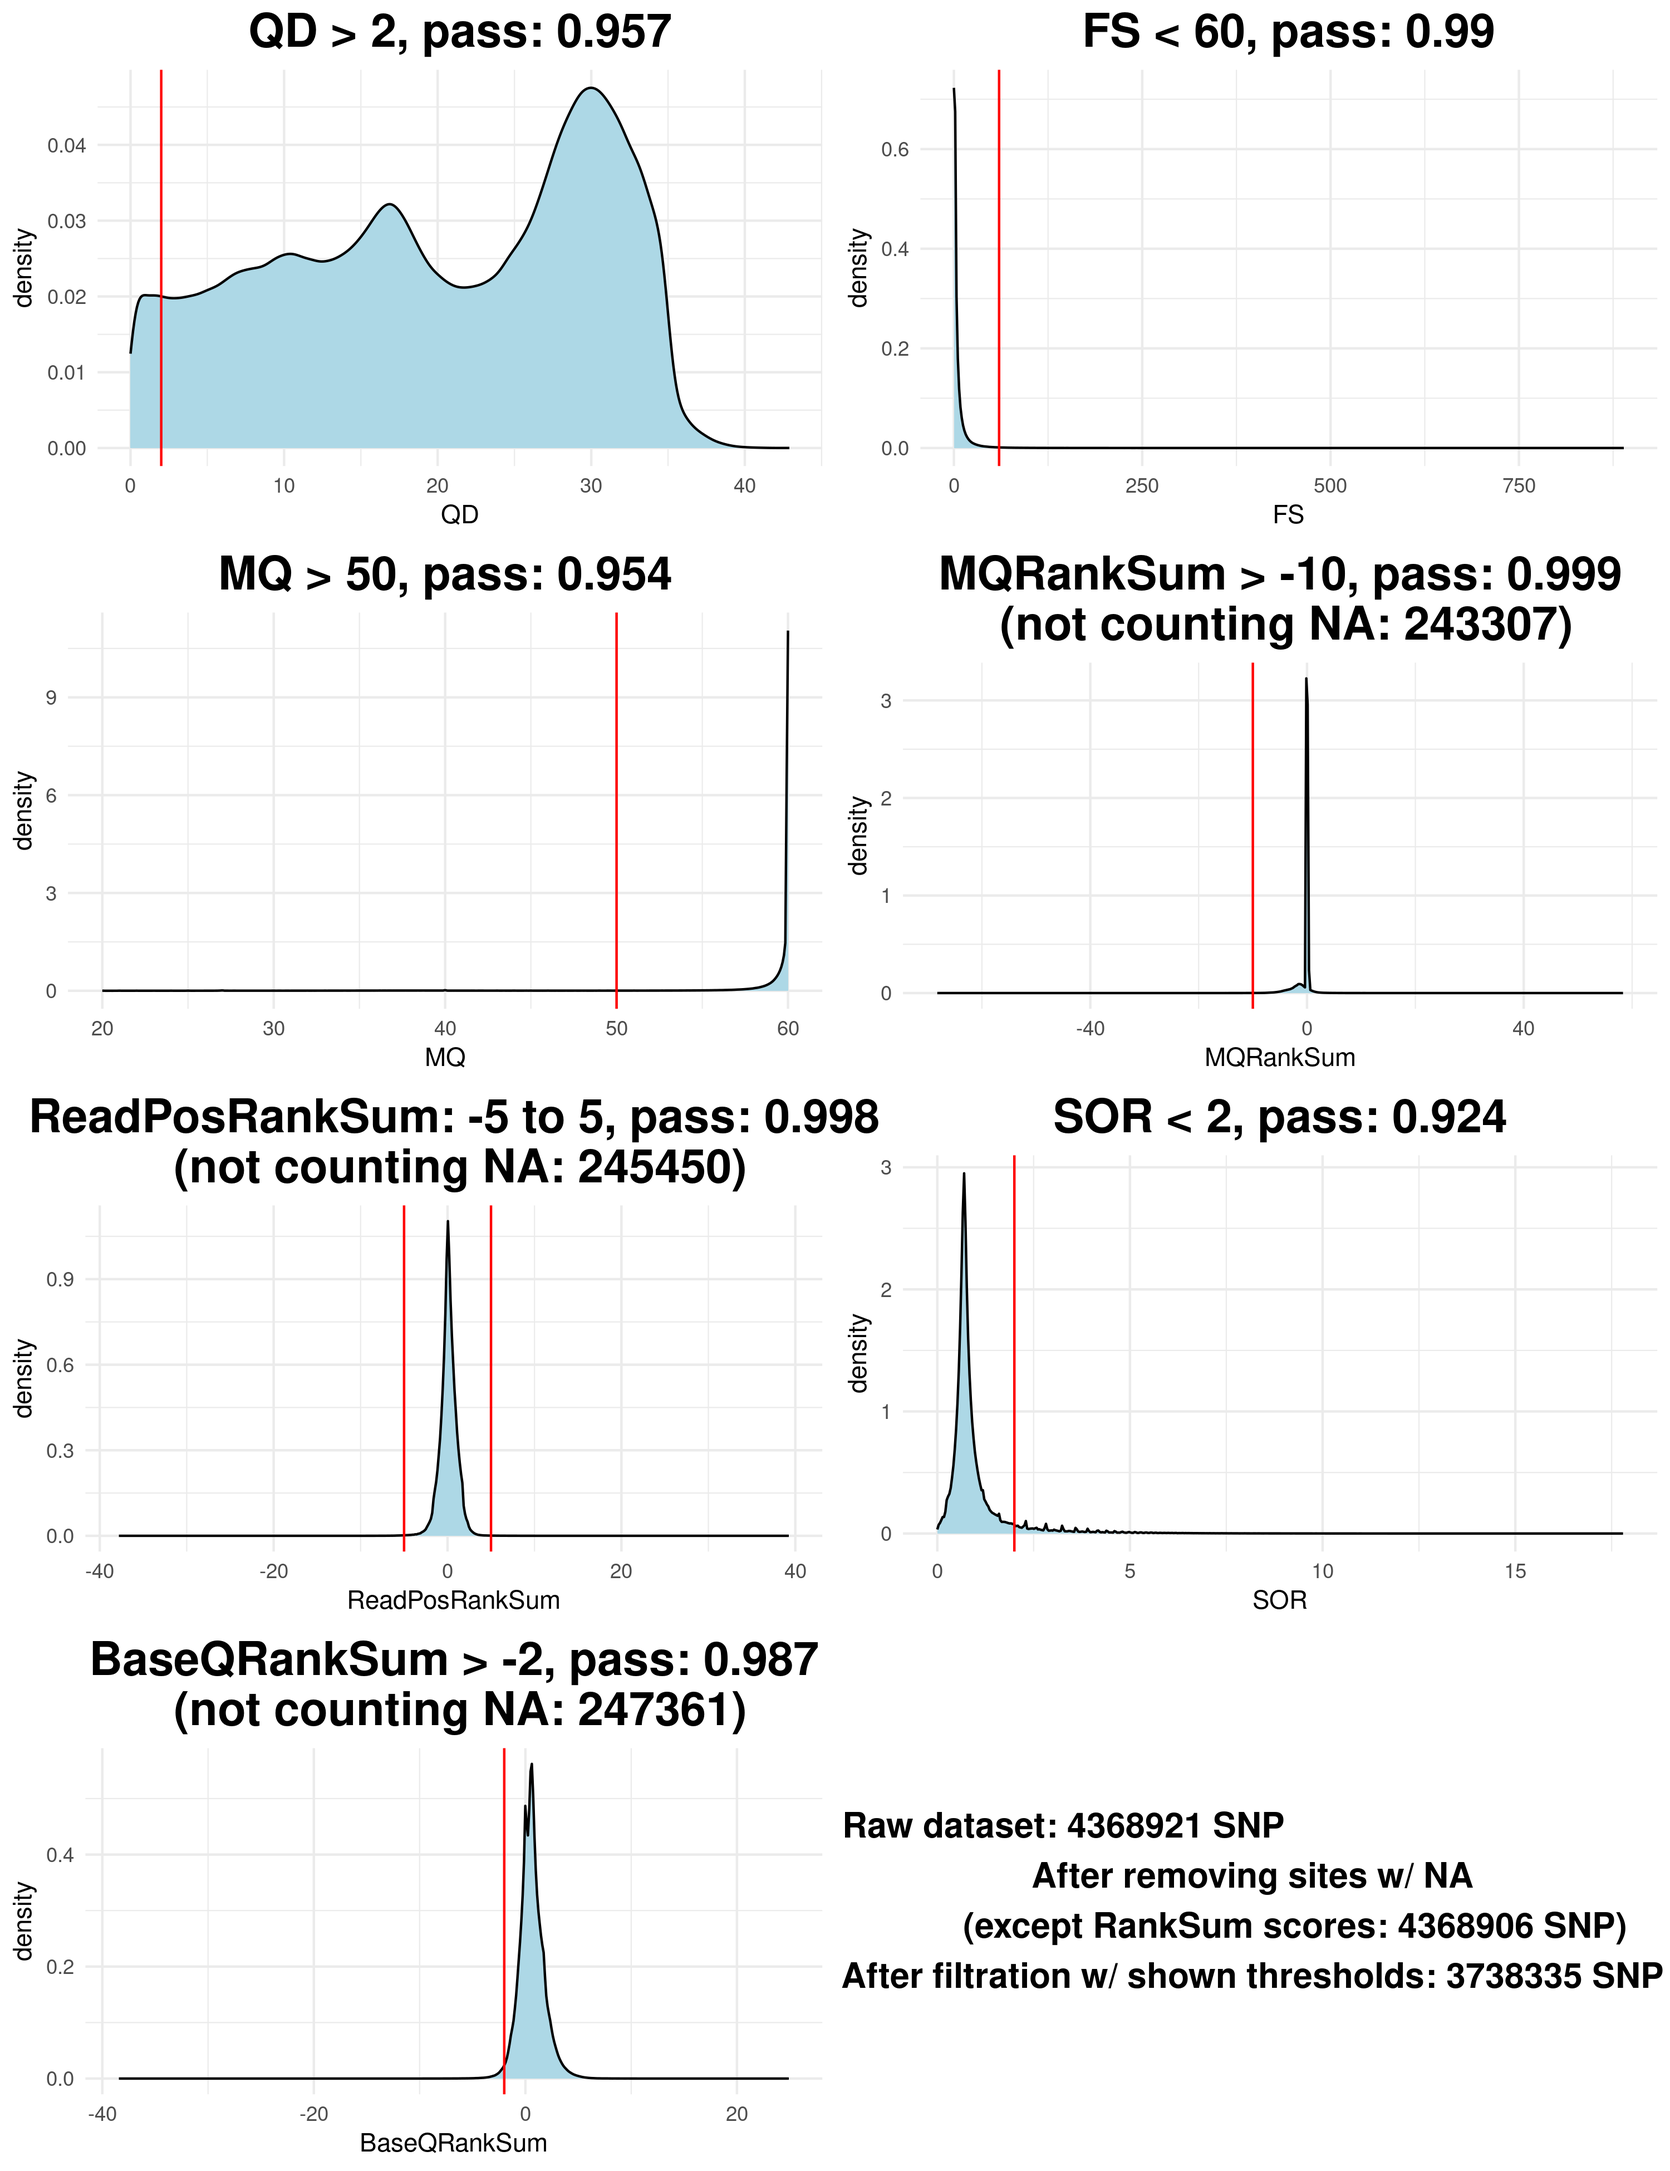
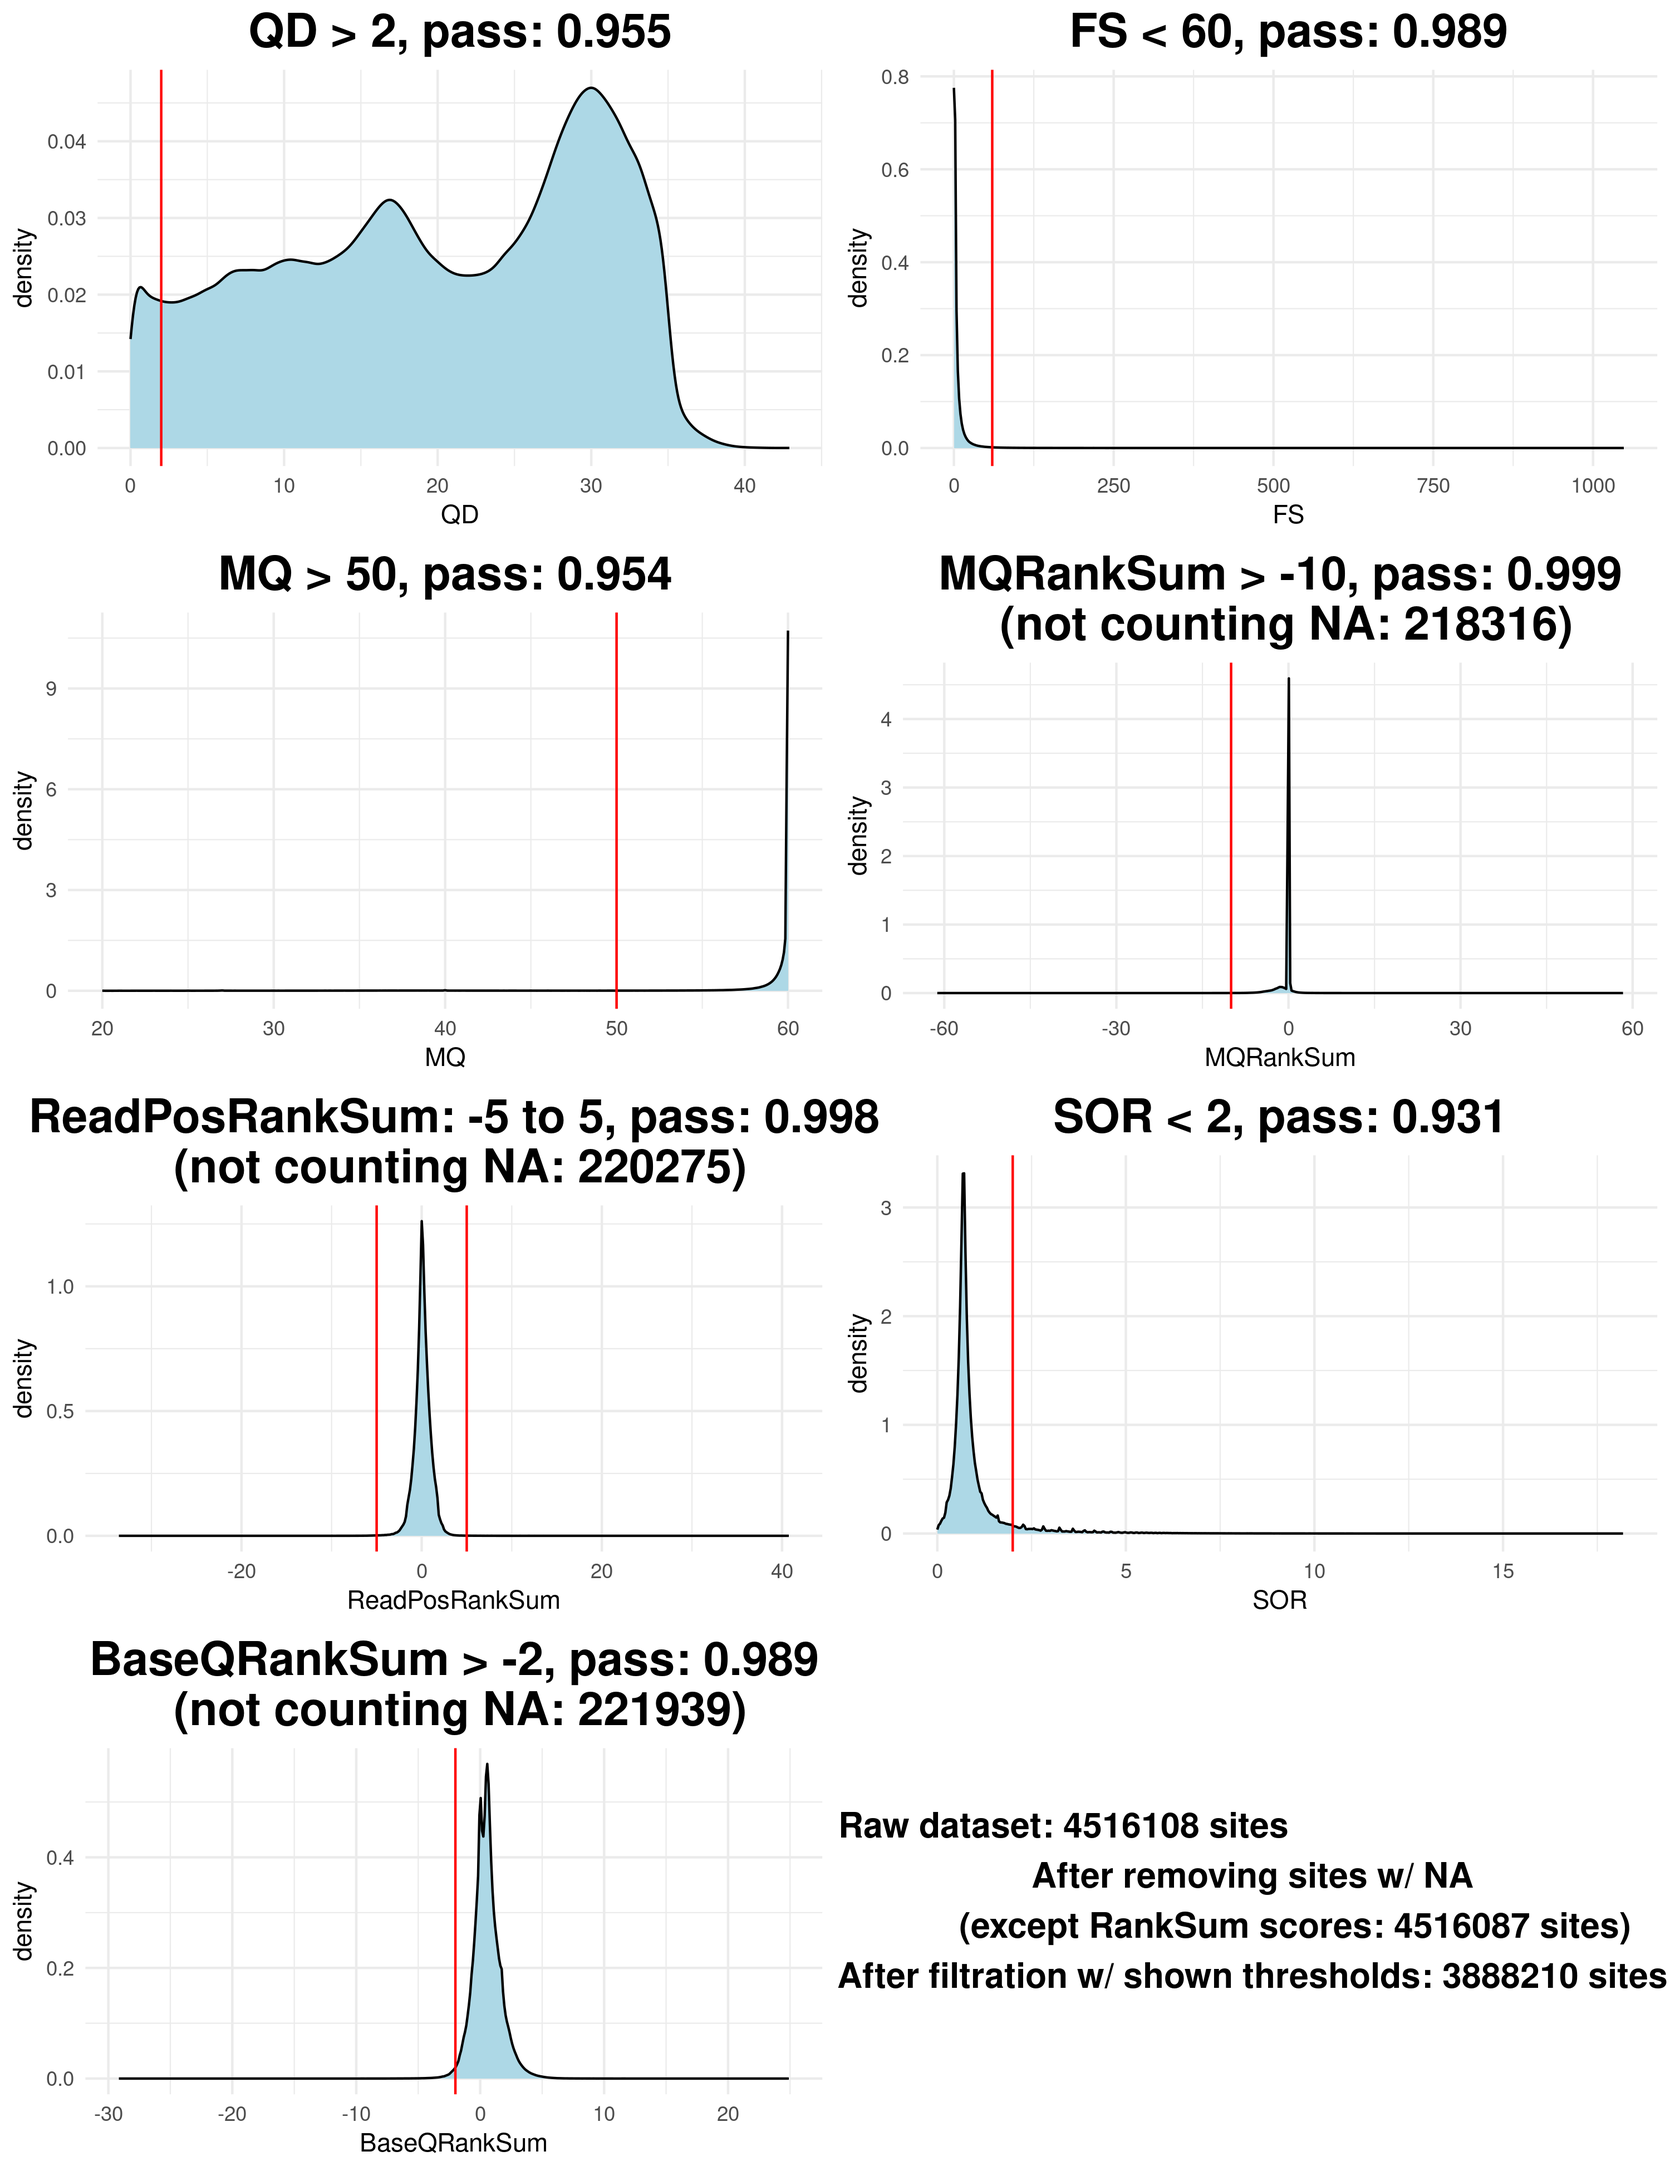
updated  plots for filtering

diff --git a/misc/determine_filter_vcf/README.md b/misc/determine_filter_vcf/README.md
@@ -1,16 +1,14 @@
 # How we got the results for the filtering
 
-First, run the **run_get_data_scores.sh** to retrieve the scores from the unfiltered vcf. Be careful, it's specialized for
-yeast chromosomes, if you use another organism change the chromosome name. It's also specific for SLURM jobs (sbatch, memory, etc).  
+First, run the **run_get_data_scores.sh** to retrieve the scores from the unfiltered vcf. Be careful, it's specific for SLURM jobs (sbatch, memory, etc).  
 
 To run the script, you have two options **merged** (if you have one vcf) or **split** (if you have one vcf per chromosome).  
 
 ```
-./run_get_data_scores split|merged
+./run_get_data_scores
 
 ```
-
-If you used split, you'll obtain multiple tsv file that you can merge use a small script (**results/merge_results.sh**, change the chromosome names if needed).  
+ 
 The final tsv (**table_scores_merged.tsv**) will contain all the score for each sites.  
 
 For the plot, run the **plot/score_global.R** script. It will generate the plot with distribution for each scores with our defined threshold and a Venn diagram.  
